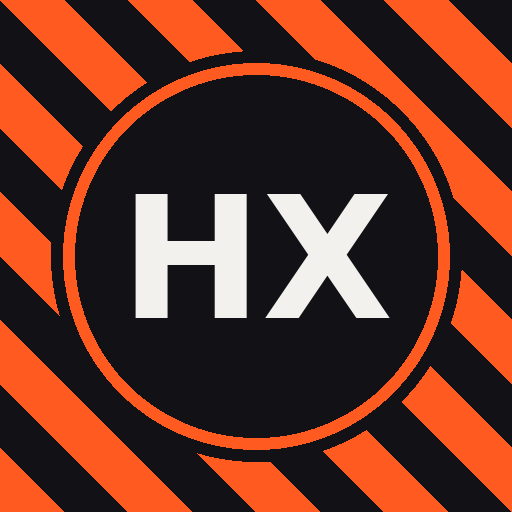
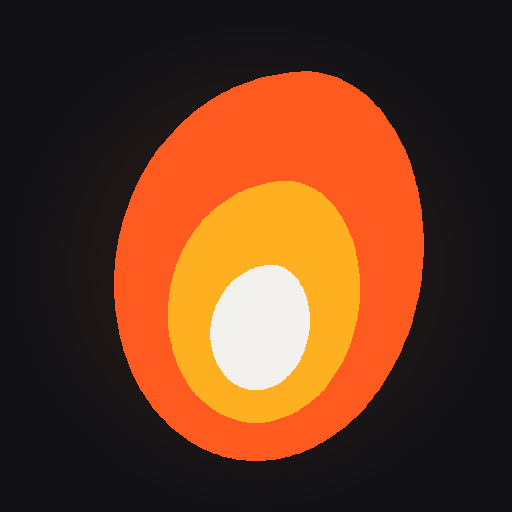
Add files via upload

diff --git a/app.js b/app.js
@@ -172,7 +172,9 @@ const state = {
   activeWeek: LS.get("hx_active_week",1),
   activeDayIdx: 0,
   completed: LS.get("hx_completed",{}),
-  nutrition: LS.get("hx_nutrition",{bodyweight:101,maintenance:2900,deficit:400}),
+  nutrition: Object.assign({bodyweight:101,maintenance:2900,deficit:400,proteinPct:30,carbPct:45,fatPct:25,fibreTarget:30},
+    LS.get("hx_nutrition",{})),
+  mealOpen: null,
   bodylog: LS.get("hx_bodylog",[]),
   customExercises: LS.get("hx_custom_exercises",[]),
   workoutLog: LS.get("hx_workout_log",[]),
@@ -222,7 +224,7 @@ function render(){
     <header class="app-header" style="display:flex;align-items:flex-end;justify-content:space-between;">
       <div>
         <div class="eyebrow-row"><div class="eyebrow-dash"></div><span class="eyebrow">Full Training System</span></div>
-        <h1 class="title">HYROX PREP</h1>
+        <h1 class="title">IGNYT</h1>
       </div>
       <button data-nav="settings" style="background:${state.tab==='settings'?'var(--surface-alt)':'none'};border:none;color:${state.tab==='settings'?'var(--accent)':'var(--muted)'};padding:8px;border-radius:10px;cursor:pointer;">${svg('gear',22)}</button>
     </header>
@@ -962,14 +964,18 @@ function renderBodyTab(){
 }
 
 /* =========================================================
-   NUTRITION TAB — auto calories eaten / burned / deficit
+   NUTRITION TAB — meals, macro budgets, insights
 ========================================================= */
 const ACTIVITY_KCAL_PER_MIN = 8; // rough estimate for mixed strength/conditioning work
+const MEALS = ["Breakfast","Morning Snack","Lunch","Evening Snack","Dinner"];
+// Default share of daily calories per meal (matches typical 25/12.5/25/12.5/25 split)
+const MEAL_SHARE = {"Breakfast":0.25,"Morning Snack":0.125,"Lunch":0.25,"Evening Snack":0.125,"Dinner":0.25};
 
 function todayStr(){ return new Date().toISOString().slice(0,10); }
 
+function foodsForDate(dateStr){ return state.foodLog.filter(f=>f.date===dateStr); }
 function todayEaten(){
-  return state.foodLog.filter(f=>f.date===todayStr()).reduce((a,f)=>a+Number(f.calories||0),0);
+  return foodsForDate(todayStr()).reduce((a,f)=>a+Number(f.calories||0),0);
 }
 function todayActivityKcal(){
   return state.workoutLog
@@ -979,58 +985,155 @@ function todayActivityKcal(){
 function todayBurned(){
   return Math.round(state.nutrition.maintenance + todayActivityKcal());
 }
+function todayMacros(){
+  const t = {protein:0, carbs:0, fat:0, fibre:0};
+  foodsForDate(todayStr()).forEach(f=>{
+    t.protein += Number(f.protein||0);
+    t.carbs += Number(f.carbs||0);
+    t.fat += Number(f.fat||0);
+    t.fibre += Number(f.fibre||0);
+  });
+  return t;
+}
+function macroTargets(){
+  const n = state.nutrition;
+  const kcal = n.maintenance - n.deficit;
+  return {
+    kcal,
+    protein: kcal*(n.proteinPct/100)/4,
+    carbs: kcal*(n.carbPct/100)/4,
+    fat: kcal*(n.fatPct/100)/9,
+    fibre: n.fibreTarget || 30
+  };
+}
+function last7DaysCalories(){
+  const out = [];
+  for(let i=6;i>=0;i--){
+    const d = new Date(); d.setDate(d.getDate()-i);
+    const ds = d.toISOString().slice(0,10);
+    const kcal = foodsForDate(ds).reduce((a,f)=>a+Number(f.calories||0),0);
+    out.push({label: d.toLocaleDateString('default',{weekday:'short'}), date: ds, kcal});
+  }
+  return out;
+}
+
+function macroBar(label, val, target, color, unit){
+  const pct = target>0 ? Math.min(100, Math.round(val/target*100)) : 0;
+  return `<div style="margin-bottom:10px;">
+    <div class="row-between" style="margin-bottom:4px;">
+      <span style="font-size:13px;font-weight:700;">${label}</span>
+      <span class="mono" style="font-size:12px;color:var(--muted);">${val.toFixed(0)} / ${target.toFixed(0)} ${unit} <span style="color:${color};font-weight:800;margin-left:4px;">${pct}%</span></span>
+    </div>
+    <div class="progress-track" style="height:7px;"><div class="progress-fill" style="width:${pct}%;background:${color};"></div></div>
+  </div>`;
+}
 
 function renderNutritionTab(){
-  const {bodyweight, maintenance, deficit} = state.nutrition;
-  const target = maintenance - deficit;
-  const proteinLow = Math.round(bodyweight*1.6);
-  const proteinHigh = Math.round(bodyweight*2);
-  const weeklyLoss = ((deficit*7)/7700).toFixed(2);
+  const n = state.nutrition;
+  const targets = macroTargets();
+  const weeklyLoss = ((n.deficit*7)/7700).toFixed(2);
 
   const eaten = todayEaten();
   const burned = todayBurned();
   const netDeficit = burned - eaten;
   const activityKcal = Math.round(todayActivityKcal());
-  const todaysFood = state.foodLog.filter(f=>f.date===todayStr());
+  const macros = todayMacros();
+  const macroPctTotal = (n.proteinPct||0)+(n.carbPct||0)+(n.fatPct||0);
+  const todaysFood = foodsForDate(todayStr());
+  const week = last7DaysCalories();
+  const weekTotal = week.reduce((a,d)=>a+d.kcal,0);
+  const weekAvg = Math.round(weekTotal/7);
+  const maxKcal = Math.max(targets.kcal, ...week.map(d=>d.kcal), 1);
 
   return `
-    <div class="eyebrow-label" style="margin-top:4px;">Today — Auto-Calculated</div>
+    <div class="eyebrow-label" style="margin-top:4px;">Today</div>
     <div class="grid2" style="margin-bottom:8px;">
-      <div class="stat-card"><div class="stat-label">Calories Eaten</div><div class="stat-value" style="color:var(--text);">${Math.round(eaten)}<span class="stat-unit">kcal</span></div></div>
-      <div class="stat-card"><div class="stat-label">Calories Burned</div><div class="stat-value" style="color:var(--steel);">${burned}<span class="stat-unit">kcal</span></div></div>
+      <div class="stat-card"><div class="stat-label">Eaten</div><div class="stat-value" style="color:var(--text);">${Math.round(eaten)}<span class="stat-unit">/ ${targets.kcal} kcal</span></div></div>
+      <div class="stat-card"><div class="stat-label">Burned (est.)</div><div class="stat-value" style="color:var(--steel);">${burned}<span class="stat-unit">kcal</span></div></div>
     </div>
-    <div class="info-box" style="text-align:center;padding:16px;margin-bottom:8px;background:${netDeficit>=0?'rgba(62,207,142,.08)':'rgba(255,90,31,.08)'};">
+    <div class="info-box" style="text-align:center;padding:14px;margin-bottom:16px;background:${netDeficit>=0?'rgba(62,207,142,.08)':'rgba(255,90,31,.08)'};">
       <div class="stat-label">${netDeficit>=0?'Deficit Created':'Surplus (over target)'}</div>
-      <div class="mono" style="font-weight:900;font-size:28px;color:${netDeficit>=0?'var(--mint)':'var(--accent)'};margin-top:2px;">${netDeficit>=0?'':'+'}${Math.abs(netDeficit)}<span style="font-size:14px;font-weight:700;color:var(--muted);margin-left:4px;">kcal</span></div>
+      <div class="mono" style="font-weight:900;font-size:26px;color:${netDeficit>=0?'var(--mint)':'var(--accent)'};margin-top:2px;">${netDeficit>=0?'':'+'}${Math.abs(netDeficit)}<span style="font-size:13px;font-weight:700;color:var(--muted);margin-left:4px;">kcal</span></div>
+      <div style="font-size:11px;color:var(--muted);margin-top:4px;">Burned = ${n.maintenance} maintenance + ~${activityKcal} workout est.</div>
     </div>
-    <div class="info-box" style="font-size:12px;margin-bottom:16px;">Burned = maintenance (${maintenance} kcal resting) + ~${activityKcal} kcal from today's logged workout time. This is an estimate, not a metabolic measurement.</div>
 
-    <div class="eyebrow-label">Log Food</div>
-    <div class="info-box" style="padding:12px;margin-bottom:8px;">
-      <div style="display:flex;gap:6px;">
-        <input type="text" id="food-name" placeholder="What did you eat?" style="flex:1;background:var(--surface-alt);border-radius:8px;padding:9px;font-size:13px;color:var(--text);">
-        <input type="number" id="food-cal" placeholder="kcal" style="width:70px;background:var(--surface-alt);border-radius:8px;padding:9px;font-size:13px;color:var(--accent);text-align:center;">
+    <div class="eyebrow-label">Macronutrients Today</div>
+    <div class="info-box" style="padding:14px;margin-bottom:16px;">
+      ${macroBar("Protein", macros.protein, targets.protein, "var(--accent)", "g")}
+      ${macroBar("Carbs", macros.carbs, targets.carbs, "var(--steel)", "g")}
+      ${macroBar("Fat", macros.fat, targets.fat, "#FFB020", "g")}
+      ${macroBar("Fibre", macros.fibre, targets.fibre, "var(--mint)", "g")}
+    </div>
+
+    <div class="eyebrow-label">Meals</div>
+    ${MEALS.map(meal=>{
+      const mealFoods = todaysFood.filter(f=>(f.meal||"Lunch")===meal);
+      const mealKcal = mealFoods.reduce((a,f)=>a+Number(f.calories||0),0);
+      const budget = Math.round(targets.kcal * MEAL_SHARE[meal]);
+      const isOpen = state.mealOpen===meal;
+      return `<div class="info-box" style="padding:12px 14px;margin-bottom:8px;">
+        <div class="row-between" data-meal-toggle="${meal}" style="cursor:pointer;">
+          <span style="font-weight:800;font-size:15px;">${meal}</span>
+          <span class="mono" style="font-size:12px;color:${mealKcal>budget?'var(--accent)':'var(--muted)'};">${mealKcal} of ${budget} Cal <span style="color:var(--accent);font-weight:900;margin-left:6px;">${isOpen?'−':'+'}</span></span>
+        </div>
+        ${mealFoods.map(f=>`<div class="history-row" style="margin-top:8px;">
+          <div><div style="font-size:13px;font-weight:600;">${f.name}</div>
+          ${(f.protein||f.carbs||f.fat)?`<div class="mono" style="font-size:10px;color:var(--muted);">P${f.protein||0} C${f.carbs||0} F${f.fat||0}</div>`:""}</div>
+          <span class="mono" style="font-size:12px;color:var(--accent);">${f.calories} kcal</span>
+          <button class="del" data-del-food="${f.id}">${svg('x',12)}</button>
+        </div>`).join("")}
+        ${isOpen?`<div style="margin-top:10px;">
+          <input type="text" id="food-name" placeholder="Food name" style="width:100%;background:var(--surface-alt);border-radius:8px;padding:9px;font-size:13px;color:var(--text);margin-bottom:6px;">
+          <div style="display:flex;gap:6px;margin-bottom:6px;">
+            <input type="number" id="food-cal" placeholder="kcal*" style="flex:1;background:var(--surface-alt);border-radius:8px;padding:9px;font-size:12px;color:var(--accent);text-align:center;">
+            <input type="number" id="food-protein" placeholder="P g" style="flex:1;background:var(--surface-alt);border-radius:8px;padding:9px;font-size:12px;color:var(--text);text-align:center;">
+            <input type="number" id="food-carbs" placeholder="C g" style="flex:1;background:var(--surface-alt);border-radius:8px;padding:9px;font-size:12px;color:var(--text);text-align:center;">
+            <input type="number" id="food-fat" placeholder="F g" style="flex:1;background:var(--surface-alt);border-radius:8px;padding:9px;font-size:12px;color:var(--text);text-align:center;">
+            <input type="number" id="food-fibre" placeholder="Fb g" style="flex:1;background:var(--surface-alt);border-radius:8px;padding:9px;font-size:12px;color:var(--text);text-align:center;">
+          </div>
+          <button class="btn btn-accent btn-block" data-log-meal-food="${meal}">Add to ${meal}</button>
+        </div>`:""}
+      </div>`;
+    }).join("")}
+
+    <div class="eyebrow-label">Last 7 Days</div>
+    <div class="info-box" style="padding:14px;margin-bottom:16px;">
+      <div class="grid2" style="margin-bottom:12px;">
+        <div><div class="stat-label">Weekly Total</div><div class="mono" style="font-weight:900;font-size:18px;">${weekTotal.toLocaleString()} <span style="font-size:11px;color:var(--muted);">Cal</span></div></div>
+        <div><div class="stat-label">Average / Day</div><div class="mono" style="font-weight:900;font-size:18px;">${weekAvg.toLocaleString()} <span style="font-size:11px;color:var(--muted);">Cal</span></div></div>
       </div>
-      <button class="btn btn-accent btn-block" data-action="log-food" style="margin-top:8px;">Add</button>
+      <div style="position:relative;height:110px;display:flex;align-items:flex-end;gap:6px;">
+        <div style="position:absolute;left:0;right:0;top:${100-Math.min(100,targets.kcal/maxKcal*100)}%;border-top:1.5px dashed var(--accent);opacity:.6;"></div>
+        ${week.map(d=>`<div style="flex:1;display:flex;flex-direction:column;align-items:center;gap:3px;height:100%;justify-content:flex-end;">
+          ${d.kcal>0?`<span class="mono" style="font-size:9px;color:var(--muted);">${d.kcal}</span>`:""}
+          <div style="width:70%;border-radius:4px 4px 0 0;background:${d.kcal>targets.kcal?'var(--accent)':'#FFB020'};height:${Math.max(2,Math.round(d.kcal/maxKcal*80))}px;"></div>
+          <span style="font-size:9px;color:var(--muted);font-weight:700;">${d.label}</span>
+        </div>`).join("")}
+      </div>
+      <div style="font-size:10px;color:var(--muted);margin-top:6px;">Dashed line = your ${targets.kcal} kcal daily target.</div>
     </div>
-    ${todaysFood.length===0?`<div class="empty-note" style="padding:12px 0;">No food logged today.</div>`:
-      todaysFood.map(f=>`<div class="history-row">
-        <span style="font-size:13px;font-weight:600;">${f.name}</span>
-        <span class="mono" style="font-size:13px;color:var(--accent);">${f.calories} kcal</span>
-        <button class="del" data-del-food="${f.id}">${svg('x',12)}</button>
-      </div>`).join("")}
 
-    <div class="eyebrow-label">Daily Targets</div>
-    <div class="field"><label>Bodyweight</label><div><input type="number" id="n-bw" value="${bodyweight}"><span class="unit">kg</span></div></div>
-    <div class="field"><label>Maintenance calories</label><div><input type="number" id="n-maint" value="${maintenance}"><span class="unit">kcal</span></div></div>
-    <div class="field"><label>Target deficit</label><div><input type="number" id="n-def" value="${deficit}"><span class="unit">kcal</span></div></div>
+    <div class="eyebrow-label">Calorie & Macro Budget</div>
+    <div class="field"><label>Bodyweight</label><div><input type="number" id="n-bw" value="${n.bodyweight}"><span class="unit">kg</span></div></div>
+    <div class="field"><label>Maintenance calories</label><div><input type="number" id="n-maint" value="${n.maintenance}"><span class="unit">kcal</span></div></div>
+    <div class="field"><label>Target deficit</label><div><input type="number" id="n-def" value="${n.deficit}"><span class="unit">kcal</span></div></div>
+    <div class="field"><label>Protein %</label><div><input type="number" id="n-proteinpct" value="${n.proteinPct}"><span class="unit">%</span></div></div>
+    <div class="field"><label>Carb %</label><div><input type="number" id="n-carbpct" value="${n.carbPct}"><span class="unit">%</span></div></div>
+    <div class="field"><label>Fat %</label><div><input type="number" id="n-fatpct" value="${n.fatPct}"><span class="unit">%</span></div></div>
+    <div class="field"><label>Fibre target</label><div><input type="number" id="n-fibre" value="${n.fibreTarget}"><span class="unit">g</span></div></div>
+    <div class="info-box" style="padding:10px 14px;margin-bottom:8px;${macroPctTotal!==100?'background:rgba(255,90,31,.1);':''}">
+      <div class="row-between"><span style="font-size:13px;font-weight:700;">Macro Total</span>
+      <span class="mono" style="font-weight:900;color:${macroPctTotal===100?'var(--mint)':'var(--accent)'};">${macroPctTotal}%</span></div>
+      ${macroPctTotal!==100?`<div style="font-size:11px;color:var(--accent);margin-top:2px;">Should add up to 100%</div>`:""}
+    </div>
 
-    <div class="eyebrow-label">Computed</div>
     <div class="grid2">
-      <div class="stat-card"><div class="stat-label">Calorie Target</div><div class="stat-value" style="color:var(--accent);">${target}<span class="stat-unit">kcal</span></div></div>
+      <div class="stat-card"><div class="stat-label">Calorie Target</div><div class="stat-value" style="color:var(--accent);">${targets.kcal}<span class="stat-unit">kcal</span></div></div>
       <div class="stat-card"><div class="stat-label">Weekly Loss (est.)</div><div class="stat-value" style="color:var(--mint);">${weeklyLoss}<span class="stat-unit">kg</span></div></div>
-      <div class="stat-card"><div class="stat-label">Protein — low</div><div class="stat-value" style="color:var(--steel);">${proteinLow}<span class="stat-unit">g</span></div></div>
-      <div class="stat-card"><div class="stat-label">Protein — high</div><div class="stat-value" style="color:var(--steel);">${proteinHigh}<span class="stat-unit">g</span></div></div>
+      <div class="stat-card"><div class="stat-label">Protein Target</div><div class="stat-value" style="color:var(--steel);">${Math.round(targets.protein)}<span class="stat-unit">g</span></div></div>
+      <div class="stat-card"><div class="stat-label">Carb Target</div><div class="stat-value" style="color:var(--steel);">${Math.round(targets.carbs)}<span class="stat-unit">g</span></div></div>
+      <div class="stat-card"><div class="stat-label">Fat Target</div><div class="stat-value" style="color:var(--steel);">${Math.round(targets.fat)}<span class="stat-unit">g</span></div></div>
+      <div class="stat-card"><div class="stat-label">Fibre Target</div><div class="stat-value" style="color:var(--mint);">${targets.fibre}<span class="stat-unit">g</span></div></div>
     </div>
     <div class="info-box" style="margin-top:14px;">Recalculate maintenance every 2–3 weeks against your actual weight trend. Don't drop below ~1800–2000 kcal given training volume — recovery beats speed here.</div>
   `;
@@ -1354,9 +1457,9 @@ const ALL_DATA_KEYS = ["hx_completed","hx_active_week","hx_nutrition","hx_bodylo
   "hx_workout_log","hx_food_log","hx_routines","hx_calc","hx_settings","hx_rest_duration","hx_tab"];
 
 function exportAllJSON(){
-  const data = { app:"hyrox-prep", version:1, exportedAt:new Date().toISOString(), data:{} };
+  const data = { app:"ignyt", version:1, exportedAt:new Date().toISOString(), data:{} };
   ALL_DATA_KEYS.forEach(k=>{ const v = localStorage.getItem(k); if(v!==null) data.data[k]=v; });
-  downloadFile("hyrox-prep-backup-"+todayStr()+".json", JSON.stringify(data,null,2), "application/json");
+  downloadFile("ignyt-backup-"+todayStr()+".json", JSON.stringify(data,null,2), "application/json");
 }
 
 function csvEscape(s){ s = String(s==null?"":s); return /[",\n]/.test(s) ? '"'+s.replace(/"/g,'""')+'"' : s; }
@@ -1376,7 +1479,7 @@ function exportWorkoutsCSV(){
     rows.push([new Date(ts).toISOString().slice(0,10), exName+" (Plan "+wk+" "+day+")", getMuscle(exName), "", "", "", "", "", "", "plan check-off"]);
   });
   const csv = rows.map(r=>r.map(csvEscape).join(",")).join("\n");
-  downloadFile("hyrox-workouts-"+todayStr()+".csv", csv, "text/csv");
+  downloadFile("ignyt-workouts-"+todayStr()+".csv", csv, "text/csv");
 }
 
 function exportMeasurementsCSV(){
@@ -1385,7 +1488,7 @@ function exportMeasurementsCSV(){
     rows.push([e.date, e.weight||"", e.sleep||"", e.hrv||"", e.waist||"", e.chest||"", e.arms||"", e.bodyfat||""]);
   });
   const csv = rows.map(r=>r.map(csvEscape).join(",")).join("\n");
-  downloadFile("hyrox-measurements-"+todayStr()+".csv", csv, "text/csv");
+  downloadFile("ignyt-measurements-"+todayStr()+".csv", csv, "text/csv");
 }
 
 function downloadFile(filename, content, mime){
@@ -1403,8 +1506,8 @@ function importAllJSON(file){
   reader.onload = ()=>{
     try{
       const parsed = JSON.parse(reader.result);
-      if(!parsed || parsed.app!=="hyrox-prep" || !parsed.data){
-        alert("This doesn't look like a Hyrox Prep backup file.");
+      if(!parsed || (parsed.app!=="ignyt" && parsed.app!=="hyrox-prep") || !parsed.data){
+        alert("This doesn't look like an Ignyt backup file.");
         return;
       }
       if(!confirm("Import will REPLACE all current app data with the backup. Continue?")) return;
@@ -1880,16 +1983,28 @@ function attachHandlers(){
     });
   });
 
-  // Nutrition tab — food log
-  const logFoodBtn = document.querySelector('[data-action="log-food"]');
-  if(logFoodBtn) logFoodBtn.addEventListener("click", ()=>{
-    const nameEl = document.getElementById("food-name");
-    const calEl = document.getElementById("food-cal");
-    const name = nameEl.value.trim();
-    const cal = Number(calEl.value);
-    if(!name || !cal) return;
-    state.foodLog.unshift({ id: Date.now(), date: todayStr(), name, calories: cal });
-    render();
+  // Nutrition tab — meals & food log
+  document.querySelectorAll("[data-meal-toggle]").forEach(el=>{
+    el.addEventListener("click", ()=>{
+      const meal = el.dataset.mealToggle;
+      state.mealOpen = state.mealOpen===meal ? null : meal;
+      render();
+    });
+  });
+  document.querySelectorAll("[data-log-meal-food]").forEach(el=>{
+    el.addEventListener("click", ()=>{
+      const meal = el.dataset.logMealFood;
+      const name = document.getElementById("food-name").value.trim();
+      const cal = Number(document.getElementById("food-cal").value);
+      if(!name || !cal) return;
+      state.foodLog.unshift({ id: Date.now(), date: todayStr(), name, calories: cal, meal,
+        protein: Number(document.getElementById("food-protein").value)||0,
+        carbs: Number(document.getElementById("food-carbs").value)||0,
+        fat: Number(document.getElementById("food-fat").value)||0,
+        fibre: Number(document.getElementById("food-fibre").value)||0
+      });
+      render();
+    });
   });
   document.querySelectorAll("[data-del-food]").forEach(el=>{
     el.addEventListener("click", ()=>{
@@ -1899,12 +2014,17 @@ function attachHandlers(){
   });
 
   // Nutrition tab
-  ["n-bw","n-maint","n-def"].forEach(id=>{
+  ["n-bw","n-maint","n-def","n-proteinpct","n-carbpct","n-fatpct","n-fibre"].forEach(id=>{
     const el = document.getElementById(id);
     if(el) el.addEventListener("change", ()=>{
-      state.nutrition.bodyweight = Number(document.getElementById("n-bw").value);
-      state.nutrition.maintenance = Number(document.getElementById("n-maint").value);
-      state.nutrition.deficit = Number(document.getElementById("n-def").value);
+      const g = (i)=>{ const e=document.getElementById(i); return e?Number(e.value):0; };
+      state.nutrition.bodyweight = g("n-bw");
+      state.nutrition.maintenance = g("n-maint");
+      state.nutrition.deficit = g("n-def");
+      state.nutrition.proteinPct = g("n-proteinpct");
+      state.nutrition.carbPct = g("n-carbpct");
+      state.nutrition.fatPct = g("n-fatpct");
+      state.nutrition.fibreTarget = g("n-fibre");
       render();
     });
   });

diff --git a/index.html b/index.html
@@ -6,10 +6,10 @@
 <meta name="theme-color" content="#121216" />
 <meta name="apple-mobile-web-app-capable" content="yes" />
 <meta name="apple-mobile-web-app-status-bar-style" content="black-translucent" />
-<meta name="apple-mobile-web-app-title" content="Hyrox Prep" />
+<meta name="apple-mobile-web-app-title" content="Ignyt" />
 <link rel="manifest" href="manifest.json" />
 <link rel="apple-touch-icon" href="icon-192.png" />
-<title>Hyrox Prep Tracker</title>
+<title>Ignyt</title>
 <style>
   :root{
     --bg:#121216; --surface:#1C1C22; --surface-alt:#26262E;

diff --git a/sw.js b/sw.js
@@ -1,4 +1,4 @@
-const CACHE = "hyrox-prep-v1";
+const CACHE = "ignyt-v2";
 const ASSETS = ["./", "./index.html", "./manifest.json", "./icon-192.png", "./icon-512.png"];
 
 self.addEventListener("install", (e) => {